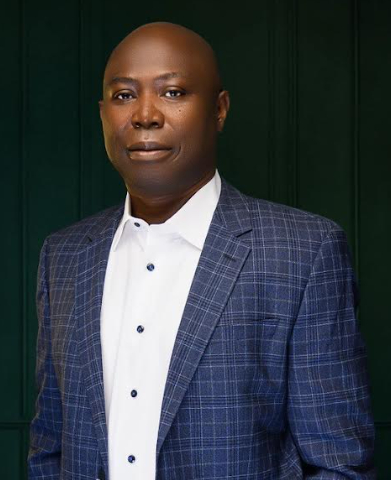
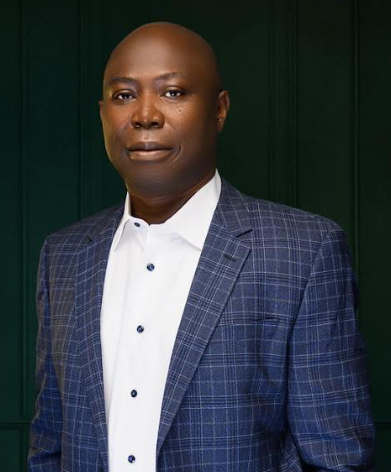
23 scrolling (#27)
* Update scrolling

* Fix link

* Fix image proportion

---------

diff --git a/themes/bexer-hugo/layouts/partials/header.html b/themes/bexer-hugo/layouts/partials/header.html
@@ -31,7 +31,13 @@
   <div class="navigation bg-white position-relative">
     <div class="container">
       <nav class="navbar navbar-expand-xl navbar-light bg-white">
-        <a class="navbar-brand py-4 py-xl-0" href="{{ site.BaseURL | relLangURL }}"><img loading="lazy" class="img-fluid" src="{{ site.Params.logo | absURL }}" alt="{{ site.Title }}" style="width:{{ site.Params.logo_width}}"></a>
+        {{ $baseURL := site.BaseURL }}
+        {{ if eq .Page.Lang "fr" }}
+          {{ $baseURL = site.Params.baseURL | default (printf "%sfr/" site.BaseURL) }}
+        {{ else if eq .Page.Lang "en" }}
+          {{ $baseURL = site.Params.baseURL | default site.BaseURL }}
+        {{ end }}
+        <a class="navbar-brand py-4 py-xl-0" href="{{ $baseURL | relLangURL }}"><img loading="lazy" class="img-fluid" src="{{ site.Params.logo | absURL }}" alt="{{ site.Title }}" style="width:{{ site.Params.logo_width}}"></a>
         <button class="navbar-toggler border-0" type="button" data-toggle="collapse" data-target="#navigation"
           aria-controls="navigation" aria-expanded="false" aria-label="Toggle navigation">
           <span class="navbar-toggler-icon"></span>

diff --git a/themes/bexer-hugo/assets/scss/_custom.scss b/themes/bexer-hugo/assets/scss/_custom.scss
@@ -24,17 +24,17 @@
 }
 
 /* Smooth scroll with offset for anchor links */
-//html {
-//  scroll-behavior: smooth;
-//}
+html {
+  scroll-behavior: smooth;
+}
 
 /* Modern approach using scroll-margin-top */
 section[id] {
-  scroll-margin-top: 75px;
+  //scroll-margin-top: 75px;
 
   /* Mobile styling */
   @media(max-width: 767px){
-    scroll-margin-top: 50px !important;
+    //scroll-margin-top: 50px !important;
   }
 }
 
